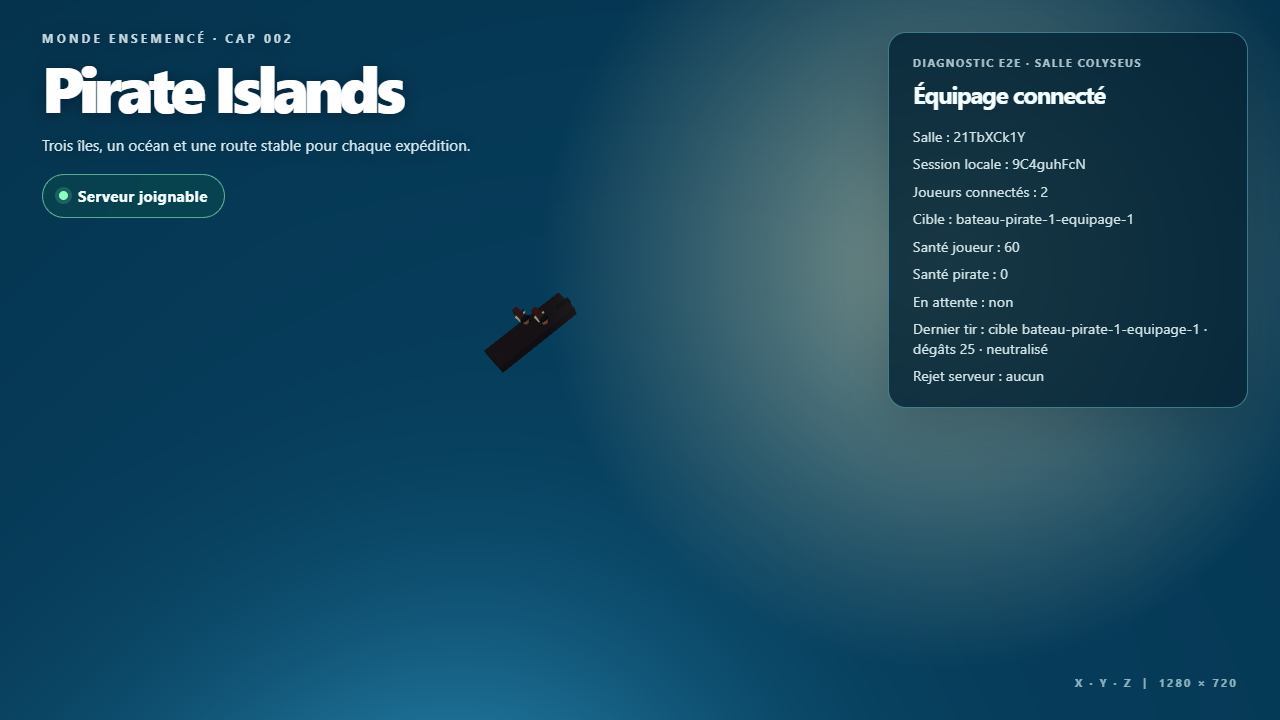
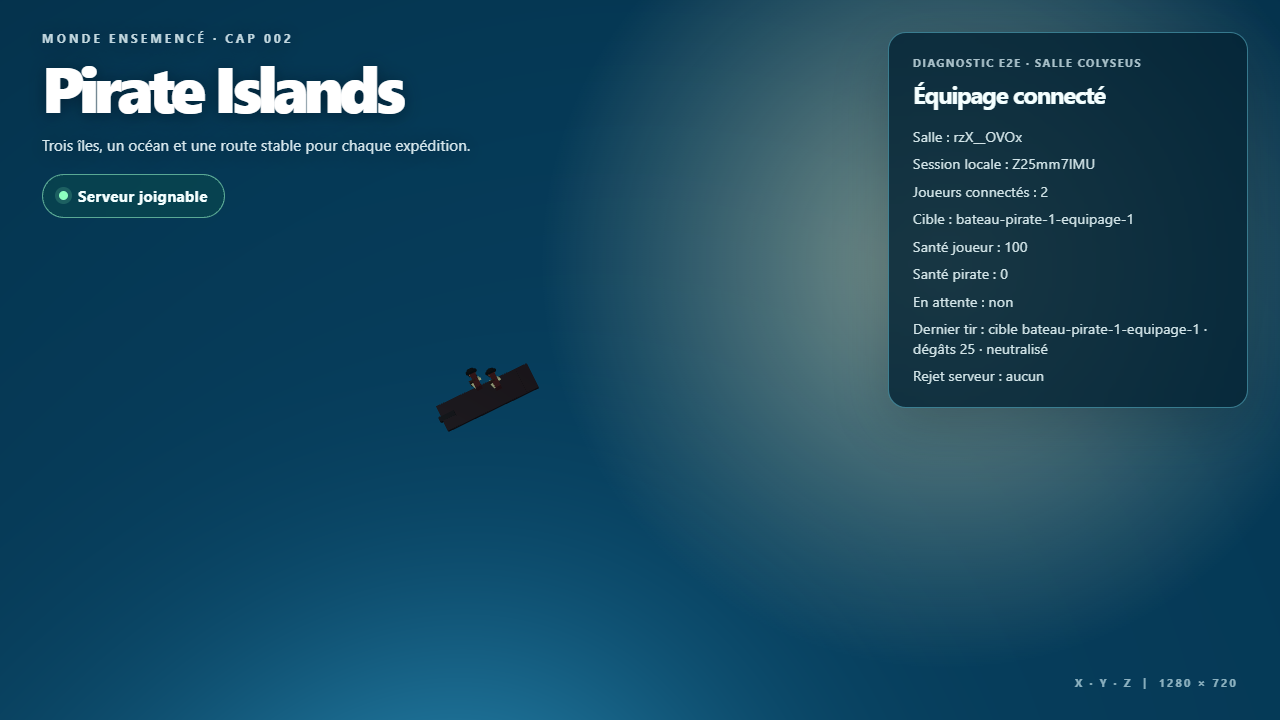
fix(mer): corriger la visée déterministe et le test E2E de neutralisation

Changed region(s): [[0.3438, 0.3972, 0.4688, 0.6111], [0.75, 0.1833, 0.875, 0.2444], [0.7812, 0.3361, 0.8125, 0.3667]]

diff --git a/docs/preuves/playwright-report/index.html b/docs/preuves/playwright-report/index.html
@@ -46,4 +46,4 @@ Error generating stack: `+e.message+`
     <div id='root'></div>
   </body>
 </html>
[2 lines of base64/hex data omitted]

diff --git a/e2e/pirates-maritimes.spec.ts b/e2e/pirates-maritimes.spec.ts
@@ -1,6 +1,8 @@
 import { expect, test, type Page } from '@playwright/test';
 
 test.use({ video: 'on' });
+/** Nombre de tirs requis pour neutraliser un pirate au premier tir. */
+const COUPS_NECESSAIRES_PIRATE = Math.ceil(100 / 25);
 
 type EtatMaritime = {
   readonly salleId: string | undefined;
@@ -24,6 +26,7 @@ type CrochetMaritime = {
   readonly lireCombat?: () => {
     readonly santeJoueur: number;
     readonly pirateNeutralise: boolean;
+    readonly enAttenteReapparition?: boolean;
   };
 };
 
@@ -139,9 +142,21 @@ test.describe('rencontre maritime autoritaire', () => {
         )
         .toBeLessThan(100);
       await page.screenshot({ path: 'docs/preuves/pirates-maritimes-attaque-1280x720.png' });
+      await expect
+        .poll(
+          async () =>
+            await page.evaluate(() => {
+              const crochet = (window as unknown as { __pirateIslandsE2E?: CrochetMaritime })
+                .__pirateIslandsE2E;
+              const combat = crochet?.lireCombat?.();
+              return combat ? !combat.enAttenteReapparition && combat.santeJoueur > 0 : false;
+            }),
+          { timeout: 6_000, intervals: [10, 20, 50, 100] },
+        )
+        .toBe(true);
 
       const équipageId = (await lireEtat(page)).bateaux[0]!.id + '-equipage-1';
-      for (let index = 0; index < 4; index += 1) {
+      for (let index = 0; index < COUPS_NECESSAIRES_PIRATE; index += 1) {
         await page.evaluate((id) => {
           const crochet = (window as unknown as { __pirateIslandsE2E?: CrochetMaritime })
             .__pirateIslandsE2E;
@@ -150,9 +165,9 @@ test.describe('rencontre maritime autoritaire', () => {
         await page.waitForTimeout(180);
       }
 
-      await expect
-        .poll(async () => (await lireEtat(page)).bateaux[0]?.statut, { timeout: 5_000 })
-        .toBe('detruit');
+     await expect
+       .poll(async () => (await lireEtat(page)).bateaux[0]?.statut, { timeout: 5_000 })
+       .toBe('detruit');
       await expect.poll(async () => (await lireEtat(second)).bateaux[0]?.statut).toBe('detruit');
       await expect
         .poll(

diff --git a/apps/client/src/jeu/diagnostic-salle.ts b/apps/client/src/jeu/diagnostic-salle.ts
@@ -1,4 +1,5 @@
 import { Client, type Room } from '@colyseus/sdk';
+import { HAUTEUR_TORSE_PIRATE } from '@pirate/coeur-jeu';
 
 import {
   EtatSalleSchema,
@@ -120,11 +121,15 @@ function calculerViseeDeterministe(
     ? pirates.find((pirate) => pirate.identifiant === cibleId && pirate.vivant)
     : undefined;
 
-  let centre: { readonly x: number; readonly y: number; readonly z: number };
+  let centre: { readonly x: number; readonly y: number; readonly z: number } = {
+    x: 0,
+    y: HAUTEUR_TORSE_PIRATE,
+    z: 0,
+  };
   if (cible !== undefined) {
     centre = {
       x: cible.transformation.x,
-      y: cible.transformation.y + 1,
+      y: cible.transformation.y + HAUTEUR_TORSE_PIRATE,
       z: cible.transformation.z,
     };
   } else {
@@ -137,7 +142,7 @@ function calculerViseeDeterministe(
     }
     centre = {
       x: candidate.transformation.x,
-      y: candidate.transformation.y + 1,
+      y: candidate.transformation.y + HAUTEUR_TORSE_PIRATE,
       z: candidate.transformation.z,
     };
   }

diff --git a/packages/coeur-jeu/src/combat.ts b/packages/coeur-jeu/src/combat.ts
@@ -6,6 +6,8 @@ export const SANTE_PIRATE_MAXIMALE = 100;
 export const SANTE_JOUEUR_MAXIMALE = 100;
 /** Dégâts infligés par tir à un pirate. */
 export const DEGATS_PAR_TIR_PIRATE = 25;
+/** Nombre minimum de tirs requis pour neutraliser un pirate au premier tir. */
+export const COUPS_NECESSAIRES_PIRATE = Math.ceil(SANTE_PIRATE_MAXIMALE / DEGATS_PAR_TIR_PIRATE);
 /** Cadence minimale entre deux tirs acceptés, en millisecondes, côté serveur. */
 export const CADENCE_TIR_SERVEUR_MS = 150;
 /** Portée maximale d'un tir exprimée en unités monde. */

diff --git a/apps/client/src/main.ts b/apps/client/src/main.ts
@@ -518,11 +518,11 @@ declare global {
   }
 }
 
+/** Interface du jeu client exposé au harnais E2E et aux tests. */
 interface JeuClient {
   readonly moteur?: Engine;
   detruire: () => void;
 }
-
 const paramètres = new URLSearchParams(window.location.search);
 const modeE2E =
   import.meta.env.DEV && import.meta.env.VITE_E2E === '1' && paramètres.get('e2e') === '1';
